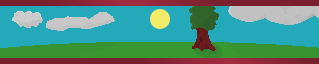
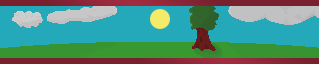
Added and adjusted scenery images

Changed region(s): [[0.1411, 0.0938, 0.3668, 0.5]]

diff --git a/src/App.tsx b/src/App.tsx
@@ -5,13 +5,16 @@ import { ViewHub } from './components/viewHub';
 import { useFrameLoop } from './components/utilities/frameLoop';
 import { solarCurve } from './components/utilities/solarCurve';
 import { windCurve } from './components/utilities/windCurve';
+import { hydroCurve } from './components/utilities/hydroCurve';
 import { Upgrade } from "./interfaces/upgrade";
 import upgrades from "./data/upgrades.json";
 
 import morning from "./img/Day_Night_Cycle_Morning.png";
 import noon from "./img/Day_Night_Cycle_Noon.png";
 import evening from "./img/Day_Night_Cycle_Evening.png";
-import { hydroCurve } from './components/utilities/hydroCurve';
+import crescent from "./img/Day_Night_Cycle_Night_Crescent.png";
+import full_moon from "./img/Day_Night_Cycle_Night_Full_Moon.png";
+import dawn from "./img/Day_Night_Cycle_Night_Dawn.png";
 
 const UPGRADES = upgrades.map((upgrade): Upgrade => ({...upgrade}));
 
@@ -223,7 +226,7 @@ function App() {
   const [deltaTime, setDeltaTime] = useState(0);
 
   const [newSave, setNewSave] = useState(5000);
-  const [newScenery, setNewScenery] = useState(20000);
+  const [newScenery, setNewScenery] = useState(10000);
   const [newMonth, setNewMonth] = useState(60000);
   const [newYear, setNewYear] = useState(720000);
 
@@ -234,11 +237,17 @@ function App() {
     }
 
     if (time > newScenery) {
-      setNewScenery(time + 20000);
+      setNewScenery(time + 10000);
 
-      if (time % 60000 > 40000) {
-        setScenery(evening);
+      if (time % 60000 > 50000) {
+        setScenery(dawn);
+      } else if (time % 60000 > 40000) {
+        setScenery(full_moon);
+      } else if (time % 60000 > 30000) {
+        setScenery(crescent);
       } else if (time % 60000 > 20000) {
+        setScenery(evening);
+      } else if (time % 60000 > 10000) {
         setScenery(noon);
       } else {
         setScenery(morning);
